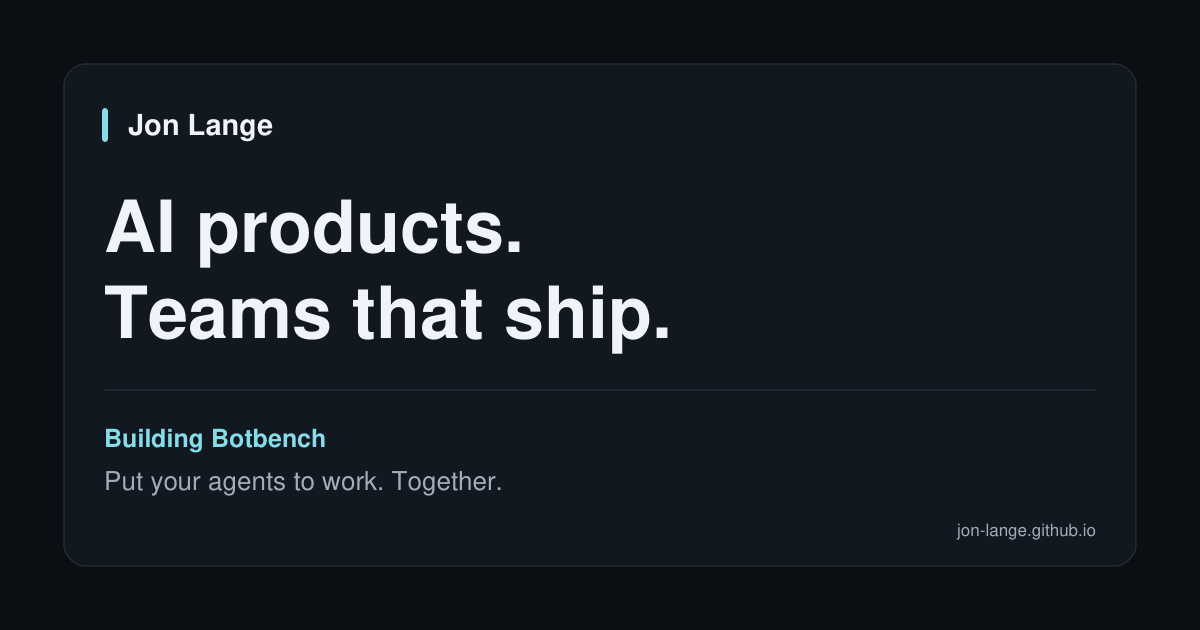
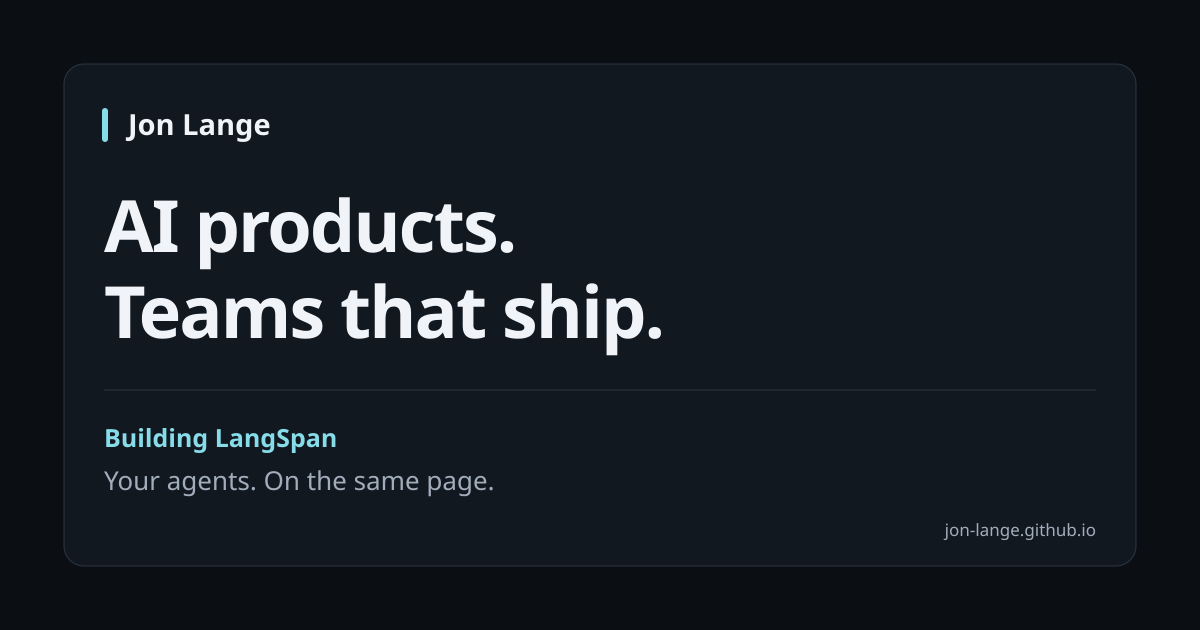
Feature LangSpan in the homepage skill picker

diff --git a/index.html b/index.html
@@ -4,17 +4,17 @@
   <meta charset="utf-8">
   <meta name="viewport" content="width=device-width,initial-scale=1">
   <meta name="theme-color" content="#16181d">
-  <meta name="description" content="Jon Lange. AI products, the systems behind them, and a few useful ideas. Choose a skill to explore.">
+  <meta name="description" content="Jon Lange. Building LangSpan so teams and their coding agents can keep building together. Explore products, engineering, and writing.">
   <title>Jon Lange — AI products. Teams that ship.</title>
   <link rel="canonical" href="https://jon-lange.github.io/">
   <meta property="og:type" content="website">
   <meta property="og:title" content="Jon Lange — AI products. Teams that ship.">
-  <meta property="og:description" content="I build AI products and the systems that help teams ship them. Start with a skill. Explore Botbench.">
+  <meta property="og:description" content="I build AI products and the systems that help teams ship them. Start with a skill. Explore LangSpan.">
   <meta property="og:url" content="https://jon-lange.github.io/">
   <meta property="og:image" content="https://jon-lange.github.io/assets/social-card.png">
   <meta property="og:image:width" content="1200">
   <meta property="og:image:height" content="630">
-  <meta property="og:image:alt" content="Jon Lange. AI products. Teams that ship. Building Botbench: put your agents to work, together.">
+  <meta property="og:image:alt" content="Jon Lange. AI products. Teams that ship. Building LangSpan: your agents, on the same page.">
   <meta name="twitter:card" content="summary_large_image">
   <meta name="twitter:creator" content="@langej117">
   <link rel="icon" href="assets/favicon.svg" type="image/svg+xml">
@@ -40,10 +40,10 @@
       <h1>Jon Lange<span class="heading-dot">.</span></h1>
       <p class="identity-lead">I build AI products and the systems<br class="desktop-break"> that help teams ship them.</p>
       <p class="identity-role">Senior Director, AI at Ripple Treasury.</p>
-      <a href="tour.html" class="current-build" data-command="/botbench"><svg class="build-mark" viewBox="0 0 24 24" aria-hidden="true"><path d="M13 4H6A2 2 0 0 0 4 6V17A2 2 0 0 0 6 19H8V9H13Z"/><path class="mark-b" d="M11 20H18A2 2 0 0 0 20 18V7A2 2 0 0 0 18 5H16V15H11Z"/></svg><span>Currently building <strong>Botbench</strong></span><code>/botbench</code></a>
-      <details class="about-details"><summary>A little more about me</summary><div><p>My work connects technical architecture, product judgment, and the way teams turn decisions into delivery.</p><p>I started in release automation, moved into cloud infrastructure and platform engineering, and kept finding that the hardest problems also involved people, priorities, and ownership.</p><p>The projects here are my independent work. Botbench is the product I'm building around the way developers work with coding agents.</p><a class="text-link" href="https://www.linkedin.com/in/jonathan-lange-ai-architect/" target="_blank" rel="noopener">The professional story</a></div></details>
+      <a href="https://langspan.github.io/" class="current-build" data-command="/langspan"><span class="build-mark langspan-mark" aria-hidden="true"><img class="mark-on-dark" src="assets/langspan-icon-dark.svg" alt="" width="32" height="32"><img class="mark-on-light" src="assets/langspan-icon-light.svg" alt="" width="32" height="32"></span><span>Currently building <strong>LangSpan</strong></span><code>/langspan</code></a>
+      <details class="about-details"><summary>A little more about me</summary><div><p>My work connects technical architecture, product judgment, and the way teams turn decisions into delivery.</p><p>I started in release automation, moved into cloud infrastructure and platform engineering, and kept finding that the hardest problems also involved people, priorities, and ownership.</p><p>The projects here are my independent work. I'm building LangSpan to help teams keep building together as their agents write more code.</p><a class="text-link" href="https://www.linkedin.com/in/jonathan-lange-ai-architect/" target="_blank" rel="noopener">The professional story</a></div></details>
     </section></div>
-      <noscript><p class="no-script">Explore directly: <a href="tour.html">Botbench tour</a> · <a href="archive.html">Experiment archive</a> · <a href="https://github.com/jon-lange">GitHub</a> · <a href="https://www.linkedin.com/in/jonathan-lange-ai-architect/">LinkedIn</a></p></noscript>
+      <noscript><p class="no-script">Explore directly: <a href="https://langspan.github.io/">LangSpan</a> · <a href="tour.html">Botbench tour</a> · <a href="archive.html">Experiment archive</a> · <a href="https://github.com/jon-lange">GitHub</a> · <a href="https://www.linkedin.com/in/jonathan-lange-ai-architect/">LinkedIn</a></p></noscript>
     </div>
   </main>
   <dialog id="skills-dialog" class="skills-dialog" aria-labelledby="skills-title">
@@ -59,16 +59,31 @@
       <h1>Jon Lange<span class="heading-dot">.</span></h1>
       <p class="identity-lead">I build AI products and the systems<br class="desktop-break"> that help teams ship them.</p>
       <p class="identity-role">Senior Director, AI at Ripple Treasury.</p>
-      <a href="tour.html" class="current-build" data-command="/botbench"><svg class="build-mark" viewBox="0 0 24 24" aria-hidden="true"><path d="M13 4H6A2 2 0 0 0 4 6V17A2 2 0 0 0 6 19H8V9H13Z"/><path class="mark-b" d="M11 20H18A2 2 0 0 0 20 18V7A2 2 0 0 0 18 5H16V15H11Z"/></svg><span>Currently building <strong>Botbench</strong></span><code>/botbench</code></a>
-      <details class="about-details"><summary>A little more about me</summary><div><p>My work connects technical architecture, product judgment, and the way teams turn decisions into delivery.</p><p>I started in release automation, moved into cloud infrastructure and platform engineering, and kept finding that the hardest problems also involved people, priorities, and ownership.</p><p>The projects here are my independent work. Botbench is the product I'm building around the way developers work with coding agents.</p><a class="text-link" href="https://www.linkedin.com/in/jonathan-lange-ai-architect/" target="_blank" rel="noopener">The professional story</a></div></details>
+      <a href="https://langspan.github.io/" class="current-build" data-command="/langspan"><span class="build-mark langspan-mark" aria-hidden="true"><img class="mark-on-dark" src="assets/langspan-icon-dark.svg" alt="" width="32" height="32"><img class="mark-on-light" src="assets/langspan-icon-light.svg" alt="" width="32" height="32"></span><span>Currently building <strong>LangSpan</strong></span><code>/langspan</code></a>
+      <details class="about-details"><summary>A little more about me</summary><div><p>My work connects technical architecture, product judgment, and the way teams turn decisions into delivery.</p><p>I started in release automation, moved into cloud infrastructure and platform engineering, and kept finding that the hardest problems also involved people, priorities, and ownership.</p><p>The projects here are my independent work. I'm building LangSpan to help teams keep building together as their agents write more code.</p><a class="text-link" href="https://www.linkedin.com/in/jonathan-lange-ai-architect/" target="_blank" rel="noopener">The professional story</a></div></details>
     </section>
   </template>
   <template id="view-work">
     <p class="eyebrow">PRODUCTS / SYSTEMS / EXPLORATIONS</p><h1>A few things in motion.</h1><p class="view-lead">The product, the craft behind it,<br>and the ideas still taking shape.</p>
-    <div class="project-list"><button type="button" class="project-item" data-command="/botbench"><img src="assets/botbench-workbench.png" alt="Botbench Home and a billing task ready for review on a phone" width="3200" height="1720"><span><span class="project-tag">FLAGSHIP PRODUCT</span><strong>Botbench</strong><span>One workbench for your coding agents and the people behind them.</span></span><code>/botbench</code></button><a class="project-item" href="https://botbenchhq.github.io/design-system-showcase/" target="_blank" rel="noopener"><img src="assets/design-system-timeline.png" alt="Botbench design-system run-timeline gallery showing running, waiting, failed, and completed component examples" width="1280" height="2387"><span><span class="project-tag">DESIGN SYSTEM</span><strong>A shared design language</strong><span>Tokens, components, and the details that make the product feel coherent.</span></span><span class="project-action">Explore</span></a><button type="button" class="project-item" data-command="/lab"><span class="lab-thumbnail" aria-hidden="true"><i></i><i></i><i></i><i></i><i></i></span><span><span class="project-tag">EXPERIMENTS</span><strong>Questions worth trying</strong><span>Small exercises, explicit assumptions, and room to change my mind.</span></span><code>/lab</code></button></div>
+    <div class="project-list">
+      <button type="button" class="project-item" data-command="/langspan"><img src="assets/langspan-overview.svg" alt="Illustrated LangSpan workflow: an overlapping edit is flagged while unrelated work continues" width="1400" height="820"><span><span class="project-tag">FLAGSHIP PRODUCT</span><strong>LangSpan</strong><span>A shared view of work in progress for your team's coding agents.</span></span><code>/langspan</code></button>
+      <button type="button" class="project-item" data-command="/botbench"><img src="assets/botbench-workbench.png" alt="Botbench Home and a billing task ready for review on a phone" width="3200" height="1720"><span><span class="project-tag">AGENT WORKBENCH</span><strong>Botbench</strong><span>Task worktrees, reviewable branches, and checks for coding agents.</span></span><code>/botbench</code></button>
+      <a class="project-item" href="https://botbenchhq.github.io/design-system-showcase/" target="_blank" rel="noopener"><img src="assets/design-system-timeline.png" alt="Botbench design-system run-timeline gallery showing running, waiting, failed, and completed component examples" width="1280" height="2387"><span><span class="project-tag">DESIGN SYSTEM</span><strong>A shared design language</strong><span>Tokens, components, and the details that make the product feel coherent.</span></span><span class="project-action">Explore</span></a>
+      <button type="button" class="project-item" data-command="/lab"><span class="lab-thumbnail" aria-hidden="true"><i></i><i></i><i></i><i></i></span><span><span class="project-tag">EXPERIMENTS</span><strong>Questions worth trying</strong><span>Small exercises, explicit assumptions, and room to change my mind.</span></span><code>/lab</code></button>
+    </div>
+  </template>
+  <template id="view-langspan">
+    <div class="view-heading-row"><div><p class="eyebrow">THE FLAGSHIP / INDEPENDENT PROJECT</p><h1>LangSpan<span class="heading-dot">.</span></h1></div><span class="outline-badge">AGENT COORDINATION</span></div>
+    <p class="view-lead">Your agents. On the same page.</p>
+    <p>I'm building LangSpan to help teams keep building together as their agents write more code. It gives coding agents a shared view of work in progress and brings relevant updates into the sessions people already use.</p>
+    <p class="muted">People set direction and review the combined result. The goal is less manual relay and avoidable rework. One developer running several agents can use the same tools.</p>
+    <a class="product-shot langspan-shot" href="https://langspan.github.io/#team-story" aria-label="Explore the LangSpan illustrated workflow"><img src="assets/langspan-overview.svg" alt="Illustrated workflow: Claude Code holds a file for an edit, Codex receives an overlap signal, and an unrelated test file remains available" width="1400" height="820"><span class="product-play">Explore the illustrated workflow</span></a>
+    <p class="caption">Connects through native hooks, CLI and MCP. An optional dashboard shows the recorded work.</p>
+    <div class="action-row"><a class="button primary" href="https://langspan.github.io/">Explore LangSpan</a><a class="button secondary" href="https://github.com/Langspan" target="_blank" rel="noopener">Project on GitHub</a></div>
+    <p class="caption">Source preview. The core repository currently requires access. The workflow above is an authored illustration.</p>
   </template>
   <template id="view-botbench">
-    <div class="view-heading-row"><div><p class="eyebrow">THE FLAGSHIP / INDEPENDENT PROJECT</p><h1>Botbench<span class="heading-dot">.</span></h1></div><span class="outline-badge">LOCAL-FIRST</span></div><p class="view-lead">Put your coding agents to work. Together.</p><p class="muted">A workbench for coding agents and the developers behind them.</p>
+    <div class="view-heading-row"><div><p class="eyebrow">INDEPENDENT PROJECT / AGENT WORKBENCH</p><h1>Botbench<span class="heading-dot">.</span></h1></div><span class="outline-badge">LOCAL-FIRST</span></div><p class="view-lead">Put your coding agents to work. Together.</p><p class="muted">A workbench for coding agents and the developers behind them.</p>
     <a class="product-shot" href="tour.html#task" aria-label="Start the Botbench product tour"><img src="assets/botbench-workbench.png" alt="Botbench Home groups work needing attention beside a phone-sized billing task review with a passing check and decision controls" width="3200" height="1720"><span class="product-play">Explore this workflow</span></a>
     <div class="tour-paths"><a href="tour.html#task"><span>THE TASK</span><strong>Give the work a place.</strong></a><a href="tour.html#review"><span>THE REVIEW</span><strong>Inspect the evidence.</strong></a><a href="tour.html#coordination"><span>THE TEAM</span><strong>Explore coordination.</strong></a></div><div class="action-row"><a class="button primary" href="tour.html#task">Play the product tour</a><a class="button secondary" href="https://github.com/botbenchhq/botbench" target="_blank" rel="noopener">View the source</a></div><p class="caption">The tour uses recorded product screens. Source-build instructions are linked at the end.</p>
   </template>
@@ -85,7 +100,7 @@
     <p class="eyebrow">RUBBER DUCK DEBUGGING / HUMAN EDITION</p><h1>Have you asked the duck?</h1><div class="duck-result"><svg viewBox="0 0 130 120" aria-hidden="true"><ellipse cx="64" cy="107" rx="47" ry="7" fill="currentColor" opacity=".12"/><path d="M24 70C7 63 8 51 12 46c8 9 16 11 29 11 3-7 7-13 16-16-3-7-2-15 2-21C69 6 91 12 98 25c4 7 3 17-2 24 10 7 15 16 14 28-2 20-22 30-46 30-22 0-42-10-44-25-1-5 1-9 4-12Z" fill="#ffd653" stroke="#272a30" stroke-width="3"/><path d="M98 29c9 0 18 3 21 7-6 5-16 7-24 4" fill="#f5914c" stroke="#272a30" stroke-width="3"/><circle cx="85" cy="27" r="3.8" fill="#272a30"/><path d="M44 68c9-8 27-7 38 2-7 17-27 23-38 10" fill="#ffbd35"/></svg><p id="duck-question">What would change your mind?</p></div><p class="muted">A few useful questions from the Chief Question Officer.</p><button type="button" class="button primary" data-command="/duck">Another question</button>
   </template>
   <template id="view-help">
-    <p class="eyebrow">A FEW WAYS IN</p><h1>You set the direction.</h1><p class="view-lead">Click the skill. Pick something to explore.</p><p class="muted">Each skill opens a curated page about my work.</p><div class="help-grid"><button type="button" data-command="/about"><code>/about</code><span>The person</span></button><button type="button" data-command="/work"><code>/work</code><span>The projects</span></button><button type="button" data-command="/botbench"><code>/botbench</code><span>The flagship</span></button><button type="button" data-command="/writing"><code>/writing</code><span>The thinking</span></button><button type="button" data-command="/lab"><code>/lab</code><span>An experiment</span></button><button type="button" data-command="/contact"><code>/contact</code><span>A conversation</span></button></div>
+    <p class="eyebrow">A FEW WAYS IN</p><h1>You set the direction.</h1><p class="view-lead">Click the skill. Pick something to explore.</p><p class="muted">Each skill opens a curated page about my work.</p><div class="help-grid"><button type="button" data-command="/about"><code>/about</code><span>The person</span></button><button type="button" data-command="/work"><code>/work</code><span>The projects</span></button><button type="button" data-command="/langspan"><code>/langspan</code><span>The flagship</span></button><button type="button" data-command="/botbench"><code>/botbench</code><span>The workbench</span></button><button type="button" data-command="/writing"><code>/writing</code><span>The thinking</span></button><button type="button" data-command="/lab"><code>/lab</code><span>An experiment</span></button><button type="button" data-command="/contact"><code>/contact</code><span>A conversation</span></button></div>
   </template>
 </body>
 </html>

diff --git a/template.html b/template.html
@@ -4,17 +4,17 @@
   <meta charset="utf-8">
   <meta name="viewport" content="width=device-width,initial-scale=1">
   <meta name="theme-color" content="#16181d">
-  <meta name="description" content="Jon Lange. AI products, the systems behind them, and a few useful ideas. Choose a skill to explore.">
+  <meta name="description" content="Jon Lange. Building LangSpan so teams and their coding agents can keep building together. Explore products, engineering, and writing.">
   <title>Jon Lange — AI products. Teams that ship.</title>
   <link rel="canonical" href="https://jon-lange.github.io/">
   <meta property="og:type" content="website">
   <meta property="og:title" content="Jon Lange — AI products. Teams that ship.">
-  <meta property="og:description" content="I build AI products and the systems that help teams ship them. Start with a skill. Explore Botbench.">
+  <meta property="og:description" content="I build AI products and the systems that help teams ship them. Start with a skill. Explore LangSpan.">
   <meta property="og:url" content="https://jon-lange.github.io/">
   <meta property="og:image" content="https://jon-lange.github.io/assets/social-card.png">
   <meta property="og:image:width" content="1200">
   <meta property="og:image:height" content="630">
-  <meta property="og:image:alt" content="Jon Lange. AI products. Teams that ship. Building Botbench: put your agents to work, together.">
+  <meta property="og:image:alt" content="Jon Lange. AI products. Teams that ship. Building LangSpan: your agents, on the same page.">
   <meta name="twitter:card" content="summary_large_image">
   <meta name="twitter:creator" content="@langej117">
   <link rel="icon" href="assets/favicon.svg" type="image/svg+xml">
@@ -37,7 +37,7 @@
     </div>
     <div id="result-scroll" class="result-scroll">
       <div id="result-output" class="result-output" tabindex="-1">$about</div>
-      <noscript><p class="no-script">Explore directly: <a href="tour.html">Botbench tour</a> · <a href="archive.html">Experiment archive</a> · <a href="https://github.com/jon-lange">GitHub</a> · <a href="https://www.linkedin.com/in/jonathan-lange-ai-architect/">LinkedIn</a></p></noscript>
+      <noscript><p class="no-script">Explore directly: <a href="https://langspan.github.io/">LangSpan</a> · <a href="tour.html">Botbench tour</a> · <a href="archive.html">Experiment archive</a> · <a href="https://github.com/jon-lange">GitHub</a> · <a href="https://www.linkedin.com/in/jonathan-lange-ai-architect/">LinkedIn</a></p></noscript>
     </div>
   </main>
   <dialog id="skills-dialog" class="skills-dialog" aria-labelledby="skills-title">
@@ -53,16 +53,31 @@
       <h1>Jon Lange<span class="heading-dot">.</span></h1>
       <p class="identity-lead">I build AI products and the systems<br class="desktop-break"> that help teams ship them.</p>
       <p class="identity-role">Senior Director, AI at Ripple Treasury.</p>
-      <a href="tour.html" class="current-build" data-command="/botbench"><svg class="build-mark" viewBox="0 0 24 24" aria-hidden="true"><path d="M13 4H6A2 2 0 0 0 4 6V17A2 2 0 0 0 6 19H8V9H13Z"/><path class="mark-b" d="M11 20H18A2 2 0 0 0 20 18V7A2 2 0 0 0 18 5H16V15H11Z"/></svg><span>Currently building <strong>Botbench</strong></span><code>/botbench</code></a>
-      <details class="about-details"><summary>A little more about me</summary><div><p>My work connects technical architecture, product judgment, and the way teams turn decisions into delivery.</p><p>I started in release automation, moved into cloud infrastructure and platform engineering, and kept finding that the hardest problems also involved people, priorities, and ownership.</p><p>The projects here are my independent work. Botbench is the product I'm building around the way developers work with coding agents.</p><a class="text-link" href="https://www.linkedin.com/in/jonathan-lange-ai-architect/" target="_blank" rel="noopener">The professional story</a></div></details>
+      <a href="https://langspan.github.io/" class="current-build" data-command="/langspan"><span class="build-mark langspan-mark" aria-hidden="true"><img class="mark-on-dark" src="assets/langspan-icon-dark.svg" alt="" width="32" height="32"><img class="mark-on-light" src="assets/langspan-icon-light.svg" alt="" width="32" height="32"></span><span>Currently building <strong>LangSpan</strong></span><code>/langspan</code></a>
+      <details class="about-details"><summary>A little more about me</summary><div><p>My work connects technical architecture, product judgment, and the way teams turn decisions into delivery.</p><p>I started in release automation, moved into cloud infrastructure and platform engineering, and kept finding that the hardest problems also involved people, priorities, and ownership.</p><p>The projects here are my independent work. I'm building LangSpan to help teams keep building together as their agents write more code.</p><a class="text-link" href="https://www.linkedin.com/in/jonathan-lange-ai-architect/" target="_blank" rel="noopener">The professional story</a></div></details>
     </section>
   </template>
   <template id="view-work">
     <p class="eyebrow">PRODUCTS / SYSTEMS / EXPLORATIONS</p><h1>A few things in motion.</h1><p class="view-lead">The product, the craft behind it,<br>and the ideas still taking shape.</p>
-    <div class="project-list"><button type="button" class="project-item" data-command="/botbench"><img src="assets/botbench-workbench.png" alt="Botbench Home and a billing task ready for review on a phone" width="3200" height="1720"><span><span class="project-tag">FLAGSHIP PRODUCT</span><strong>Botbench</strong><span>One workbench for your coding agents and the people behind them.</span></span><code>/botbench</code></button><a class="project-item" href="https://botbenchhq.github.io/design-system-showcase/" target="_blank" rel="noopener"><img src="assets/design-system-timeline.png" alt="Botbench design-system run-timeline gallery showing running, waiting, failed, and completed component examples" width="1280" height="2387"><span><span class="project-tag">DESIGN SYSTEM</span><strong>A shared design language</strong><span>Tokens, components, and the details that make the product feel coherent.</span></span><span class="project-action">Explore</span></a><button type="button" class="project-item" data-command="/lab"><span class="lab-thumbnail" aria-hidden="true"><i></i><i></i><i></i><i></i><i></i></span><span><span class="project-tag">EXPERIMENTS</span><strong>Questions worth trying</strong><span>Small exercises, explicit assumptions, and room to change my mind.</span></span><code>/lab</code></button></div>
+    <div class="project-list">
+      <button type="button" class="project-item" data-command="/langspan"><img src="assets/langspan-overview.svg" alt="Illustrated LangSpan workflow: an overlapping edit is flagged while unrelated work continues" width="1400" height="820"><span><span class="project-tag">FLAGSHIP PRODUCT</span><strong>LangSpan</strong><span>A shared view of work in progress for your team's coding agents.</span></span><code>/langspan</code></button>
+      <button type="button" class="project-item" data-command="/botbench"><img src="assets/botbench-workbench.png" alt="Botbench Home and a billing task ready for review on a phone" width="3200" height="1720"><span><span class="project-tag">AGENT WORKBENCH</span><strong>Botbench</strong><span>Task worktrees, reviewable branches, and checks for coding agents.</span></span><code>/botbench</code></button>
+      <a class="project-item" href="https://botbenchhq.github.io/design-system-showcase/" target="_blank" rel="noopener"><img src="assets/design-system-timeline.png" alt="Botbench design-system run-timeline gallery showing running, waiting, failed, and completed component examples" width="1280" height="2387"><span><span class="project-tag">DESIGN SYSTEM</span><strong>A shared design language</strong><span>Tokens, components, and the details that make the product feel coherent.</span></span><span class="project-action">Explore</span></a>
+      <button type="button" class="project-item" data-command="/lab"><span class="lab-thumbnail" aria-hidden="true"><i></i><i></i><i></i><i></i></span><span><span class="project-tag">EXPERIMENTS</span><strong>Questions worth trying</strong><span>Small exercises, explicit assumptions, and room to change my mind.</span></span><code>/lab</code></button>
+    </div>
+  </template>
+  <template id="view-langspan">
+    <div class="view-heading-row"><div><p class="eyebrow">THE FLAGSHIP / INDEPENDENT PROJECT</p><h1>LangSpan<span class="heading-dot">.</span></h1></div><span class="outline-badge">AGENT COORDINATION</span></div>
+    <p class="view-lead">Your agents. On the same page.</p>
+    <p>I'm building LangSpan to help teams keep building together as their agents write more code. It gives coding agents a shared view of work in progress and brings relevant updates into the sessions people already use.</p>
+    <p class="muted">People set direction and review the combined result. The goal is less manual relay and avoidable rework. One developer running several agents can use the same tools.</p>
+    <a class="product-shot langspan-shot" href="https://langspan.github.io/#team-story" aria-label="Explore the LangSpan illustrated workflow"><img src="assets/langspan-overview.svg" alt="Illustrated workflow: Claude Code holds a file for an edit, Codex receives an overlap signal, and an unrelated test file remains available" width="1400" height="820"><span class="product-play">Explore the illustrated workflow</span></a>
+    <p class="caption">Connects through native hooks, CLI and MCP. An optional dashboard shows the recorded work.</p>
+    <div class="action-row"><a class="button primary" href="https://langspan.github.io/">Explore LangSpan</a><a class="button secondary" href="https://github.com/Langspan" target="_blank" rel="noopener">Project on GitHub</a></div>
+    <p class="caption">Source preview. The core repository currently requires access. The workflow above is an authored illustration.</p>
   </template>
   <template id="view-botbench">
-    <div class="view-heading-row"><div><p class="eyebrow">THE FLAGSHIP / INDEPENDENT PROJECT</p><h1>Botbench<span class="heading-dot">.</span></h1></div><span class="outline-badge">LOCAL-FIRST</span></div><p class="view-lead">Put your coding agents to work. Together.</p><p class="muted">A workbench for coding agents and the developers behind them.</p>
+    <div class="view-heading-row"><div><p class="eyebrow">INDEPENDENT PROJECT / AGENT WORKBENCH</p><h1>Botbench<span class="heading-dot">.</span></h1></div><span class="outline-badge">LOCAL-FIRST</span></div><p class="view-lead">Put your coding agents to work. Together.</p><p class="muted">A workbench for coding agents and the developers behind them.</p>
     <a class="product-shot" href="tour.html#task" aria-label="Start the Botbench product tour"><img src="assets/botbench-workbench.png" alt="Botbench Home groups work needing attention beside a phone-sized billing task review with a passing check and decision controls" width="3200" height="1720"><span class="product-play">Explore this workflow</span></a>
     <div class="tour-paths"><a href="tour.html#task"><span>THE TASK</span><strong>Give the work a place.</strong></a><a href="tour.html#review"><span>THE REVIEW</span><strong>Inspect the evidence.</strong></a><a href="tour.html#coordination"><span>THE TEAM</span><strong>Explore coordination.</strong></a></div><div class="action-row"><a class="button primary" href="tour.html#task">Play the product tour</a><a class="button secondary" href="https://github.com/botbenchhq/botbench" target="_blank" rel="noopener">View the source</a></div><p class="caption">The tour uses recorded product screens. Source-build instructions are linked at the end.</p>
   </template>
@@ -79,7 +94,7 @@
     <p class="eyebrow">RUBBER DUCK DEBUGGING / HUMAN EDITION</p><h1>Have you asked the duck?</h1><div class="duck-result"><svg viewBox="0 0 130 120" aria-hidden="true"><ellipse cx="64" cy="107" rx="47" ry="7" fill="currentColor" opacity=".12"/><path d="M24 70C7 63 8 51 12 46c8 9 16 11 29 11 3-7 7-13 16-16-3-7-2-15 2-21C69 6 91 12 98 25c4 7 3 17-2 24 10 7 15 16 14 28-2 20-22 30-46 30-22 0-42-10-44-25-1-5 1-9 4-12Z" fill="#ffd653" stroke="#272a30" stroke-width="3"/><path d="M98 29c9 0 18 3 21 7-6 5-16 7-24 4" fill="#f5914c" stroke="#272a30" stroke-width="3"/><circle cx="85" cy="27" r="3.8" fill="#272a30"/><path d="M44 68c9-8 27-7 38 2-7 17-27 23-38 10" fill="#ffbd35"/></svg><p id="duck-question">What would change your mind?</p></div><p class="muted">A few useful questions from the Chief Question Officer.</p><button type="button" class="button primary" data-command="/duck">Another question</button>
   </template>
   <template id="view-help">
-    <p class="eyebrow">A FEW WAYS IN</p><h1>You set the direction.</h1><p class="view-lead">Click the skill. Pick something to explore.</p><p class="muted">Each skill opens a curated page about my work.</p><div class="help-grid"><button type="button" data-command="/about"><code>/about</code><span>The person</span></button><button type="button" data-command="/work"><code>/work</code><span>The projects</span></button><button type="button" data-command="/botbench"><code>/botbench</code><span>The flagship</span></button><button type="button" data-command="/writing"><code>/writing</code><span>The thinking</span></button><button type="button" data-command="/lab"><code>/lab</code><span>An experiment</span></button><button type="button" data-command="/contact"><code>/contact</code><span>A conversation</span></button></div>
+    <p class="eyebrow">A FEW WAYS IN</p><h1>You set the direction.</h1><p class="view-lead">Click the skill. Pick something to explore.</p><p class="muted">Each skill opens a curated page about my work.</p><div class="help-grid"><button type="button" data-command="/about"><code>/about</code><span>The person</span></button><button type="button" data-command="/work"><code>/work</code><span>The projects</span></button><button type="button" data-command="/langspan"><code>/langspan</code><span>The flagship</span></button><button type="button" data-command="/botbench"><code>/botbench</code><span>The workbench</span></button><button type="button" data-command="/writing"><code>/writing</code><span>The thinking</span></button><button type="button" data-command="/lab"><code>/lab</code><span>An experiment</span></button><button type="button" data-command="/contact"><code>/contact</code><span>A conversation</span></button></div>
   </template>
 </body>
 </html>

diff --git a/cli.js b/cli.js
@@ -17,7 +17,8 @@
     var skills = [
       { command: '/about', view: 'about', title: 'About Jon', description: 'Meet the person behind the work', aliases: ['about', 'who is jon', 'who are you', 'whoami', 'hello', 'home', '/home'] },
       { command: '/work', view: 'work', title: 'Selected work', description: 'Explore products, systems, and experiments', aliases: ['work', 'what are you building', 'show me what youre building', 'show me your work', 'projects', 'ls'] },
-      { command: '/botbench', view: 'botbench', title: 'Botbench', description: 'Take the flagship product for a spin', aliases: ['botbench', 'show me botbench', 'open botbench', 'try botbench', 'tour'] },
+      { command: '/langspan', view: 'langspan', title: 'LangSpan', description: 'Explore the flagship: your agents, on the same page', aliases: ['langspan', 'lang span', 'show me langspan', 'open langspan', 'try langspan', 'flagship', 'agent coordination', 'tour'] },
+      { command: '/botbench', view: 'botbench', title: 'Botbench', description: 'Explore the coding-agent workbench', aliases: ['botbench', 'show me botbench', 'open botbench', 'try botbench', 'botbench tour'] },
       { command: '/writing', view: 'writing', title: 'Writing', description: 'Open the notebook', aliases: ['writing', 'what are you thinking about', 'notes', 'essay', 'open notebook'] },
       { command: '/lab', view: 'lab', title: 'The lab', description: 'Try a small feedback illustration', aliases: ['lab', 'let me try something', 'experiments', 'feedback', 'show me the lab'] },
       { command: '/contact', view: 'contact', title: 'Say hello', description: 'Find a way to connect', aliases: ['contact', 'lets talk', 'say hello', 'get in touch'] },
@@ -163,7 +164,7 @@
       if (!filteredSkills.length) {
         var empty = document.createElement('p');
         empty.className = 'skill-empty';
-        empty.textContent = 'No matching skills. Try a name like Botbench, writing, or lab.';
+        empty.textContent = 'No matching skills. Try a name like LangSpan, writing, or lab.';
         options.appendChild(empty);
       }
     }
@@ -302,7 +303,7 @@
         event.preventDefault();
         var exact = findSkill(search.value);
         if (exact || filteredSkills[0]) selectSkill(exact || filteredSkills[0], 'keyboard');
-        else status.textContent = 'No matching skills. Try Botbench, writing, or lab.';
+        else status.textContent = 'No matching skills. Try LangSpan, writing, or lab.';
       }
     });
     document.addEventListener('click', function (event) {

diff --git a/cli.css b/cli.css
@@ -53,6 +53,11 @@ h1{font-size:clamp(2.1rem,4vw,3rem)}
 .build-mark{--brand-cyan:#06B6D4;width:1.3rem;height:1.3rem;flex-shrink:0;fill:currentColor}
 :root[data-theme=light] .build-mark{--brand-cyan:#03748F}
 .build-mark .mark-b{fill:var(--brand-cyan)}
+.langspan-mark{width:1.5rem;height:1.5rem}
+.langspan-mark img{width:100%;height:100%;object-fit:contain}
+.langspan-mark .mark-on-light{display:none}
+:root[data-theme=light] .langspan-mark .mark-on-dark{display:none}
+:root[data-theme=light] .langspan-mark .mark-on-light{display:block}
 .current-build>span:nth-child(2){color:var(--muted)}
 .current-build strong{color:var(--text);font-weight:500}
 .current-build code{margin-left:20px;color:var(--accent);font-size:.8125rem}
@@ -104,6 +109,7 @@ h1{font-size:clamp(2.1rem,4vw,3rem)}
 .project-item:hover{background:var(--hover);border-color:var(--dim)}
 .project-item>img{width:132px;height:96px;object-fit:cover;border-radius:3px;background:#dddce3}
 .project-item[data-command="/botbench"]>img{object-fit:contain;background:#111316}
+.project-item[data-command="/langspan"]>img{object-fit:contain;background:#F4F3EF}
 .project-item>span:nth-child(2){display:flex;flex-direction:column;min-width:0;gap:5px}
 .project-item strong{font-size:1.2rem;font-weight:600;letter-spacing:-.025em}
 .project-item>span:nth-child(2)>span:not(.project-tag){color:var(--muted);font-size:.875rem;line-height:1.5}
@@ -122,6 +128,9 @@ h1{font-size:clamp(2.1rem,4vw,3rem)}
 .product-shot img{width:100%;height:330px;object-fit:contain;object-position:center;transition:transform .3s}
 .product-shot:hover img{transform:scale(1.015)}
 .product-play{position:absolute;left:20px;bottom:18px;background:#24222fe8;border:1px solid #ffffff30;color:#f6f2ff;border-radius:5px;padding:10px 15px;font-size:.875rem}
+.langspan-shot{background:#F4F3EF}
+.langspan-shot img{height:auto}
+.langspan-shot .product-play{position:static;display:block;border:0;border-radius:0;background:var(--panel);color:var(--accent);text-align:center}
 .tour-paths{display:grid;grid-template-columns:repeat(3,minmax(0,1fr));gap:10px;margin-top:14px}
 .tour-paths a{display:flex;flex-direction:column;gap:7px;border:1px solid var(--line);border-radius:5px;padding:15px;background:var(--panel)}
 .tour-paths a:hover{border-color:var(--accent)}

diff --git a/README.md b/README.md
@@ -1,10 +1,11 @@
 # jon-lange.github.io
 
 Jon Lange’s personal portfolio, led by
-[Botbench](https://botbenchhq.github.io/) as the flagship independent product.
+[LangSpan](https://langspan.github.io/) as the flagship independent product.
 One terminal is the front door: `/about` is already typed, and choosing a skill
-retypes the command before showing its output. A recorded product tour and a
-separate historical research archive provide the deeper paths.
+retypes the command before showing its output. `/langspan` introduces the
+current project. Botbench's recorded product tour and a separate historical
+research archive remain available as supporting work.
 
 ## Build
 
@@ -37,7 +38,16 @@ duplicated historical record identifiers.
 The personal promise is **“I build AI products and the systems that help teams
 ship them.”** Career context is separate from the independent projects.
 
-Botbench leads with **“Put your coding agents to work. Together.”** The tour
+LangSpan leads with **“Your agents. On the same page.”** Its mission is to help
+teams keep building together as their agents write more code. The skill explains
+shared work updates through native hooks, CLI and MCP, with an optional
+dashboard. Solo use with several agents is a secondary entry point. The goal is
+less manual relay and avoidable rework; those outcomes are not measured claims.
+The product is a source preview and the walkthrough is an authored illustration.
+Links use the working GitHub Pages site and public organization while the public
+core repository and custom domain are being prepared separately.
+
+Botbench remains a supporting project. Its recorded tour
 identifies it as an early, open-source macOS product. Its coordination example
 was recorded with two installations on one Mac; the receiving owner chooses
 how to handle an incoming question. The source-build guide is the next step.
@@ -50,7 +60,7 @@ presented as validation of Botbench, prevalence data, or universal AI rules.
 ## Interaction and fallback behavior
 
 - **Skill picker:** click the pretyped command or use `/` or Command/Ctrl+K.
-  The native dialog offers `/about`, `/work`, `/botbench`, `/writing`, `/lab`,
+  The native dialog offers `/about`, `/work`, `/langspan`, `/botbench`, `/writing`, `/lab`,
   `/contact`, and `/duck`; `/help` explains the paths. Search, Tab, and Enter
   work from the keyboard. Escape dismisses the picker and restores focus.
   On narrow screens, opening it does not immediately summon the soft keyboard.
@@ -58,6 +68,10 @@ presented as validation of Botbench, prevalence data, or universal AI rules.
   Direct hash links and browser history work. The terminal does not execute
   shell commands or call an AI model. About content and ordinary fallback
   links are present in the delivered HTML.
+- **LangSpan:** the About action and first Work card open `/langspan`; the
+  shareable route is `#langspan`. The About action and no-JavaScript fallback
+  link directly to the product website when scripts are unavailable. The
+  generic `tour` alias opens LangSpan; `botbench tour` opens Botbench.
 - **Product tour:** five stops use recorded screens to cover the task, boundaries, evidence,
   coordination, and source build. Chapter buttons and screen-detail controls
   work from the keyboard. Screens can be enlarged in a native modal dialog;
@@ -74,9 +88,15 @@ presented as validation of Botbench, prevalence data, or universal AI rules.
 
 ## Assets and provenance
 
-All five screenshots are unchanged copies of repository images. Their exact
+All five Botbench/design-system screenshots are unchanged copies of repository images. Their exact
 Git blob identities and file SHA-256 hashes are recorded in
 [`assets/provenance.json`](assets/provenance.json).
+
+LangSpan's two theme-specific icons and workflow illustration are also copied
+unchanged from the public website, with source identities and hashes in the
+same provenance file. The icons come from the supplied brand kit. The
+illustration is labelled and is not a product screenshot. The current-build
+action switches the approved icon with the homepage's light/dark theme.
 
 | Local image | Source repository path |
 |---|---|
@@ -110,10 +130,9 @@ separate from a model’s review and explicitly labels the coordination setup.
 `assets/favicon.svg` is the personal mark, retained for the homepage and archive.
 The product tour uses `assets/botbench-favicon.svg`, copied unchanged from
 [`botbenchhq/botbench:web/src/brand/favicon.svg`](https://github.com/botbenchhq/botbench/blob/ff02c33ad152ddfe113236e87ee10449b793ea6f/web/src/brand/favicon.svg)
-(Git blob `8fc7019e6aa69342139eb1ed1ceda24cc851034d`). The About action and
-tour use the same Shared Seam path geometry: the first bracket follows the
-current text color and the second is brand cyan (`#03748F` on light surfaces,
-`#06B6D4` on dark surfaces). Recorded screenshots remain unchanged.
+(Git blob `8fc7019e6aa69342139eb1ed1ceda24cc851034d`). The Botbench tour retains
+its Shared Seam mark. The About action uses LangSpan's approved icon instead.
+Recorded screenshots remain unchanged.
 
 Images, scripts, and stylesheets are
 served locally. The terminal and tour request their web fonts from Google Fonts
